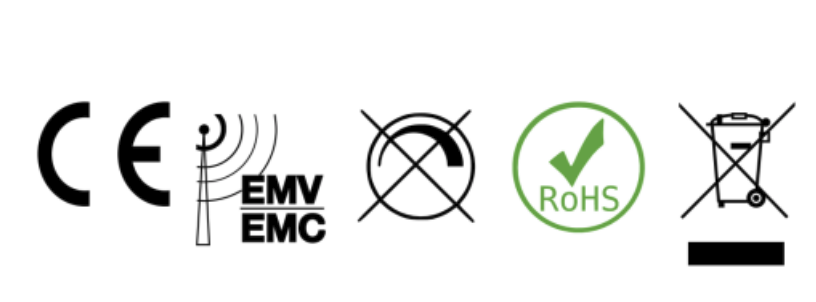
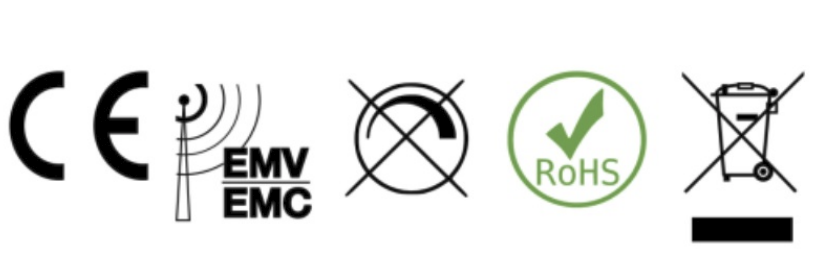
Lable A3 changes

diff --git a/app/controllers/labels_controller.rb b/app/controllers/labels_controller.rb
@@ -19,7 +19,7 @@ class LabelsController < ApplicationController
                orientation: 'Landscape',
                layout: "pdf",
                formats: [:html],
-               page_size: 'A4',
+               page_size: 'A3',
                encoding: "UTF-8",
                show_as_html: params.key?("debug")
       end
